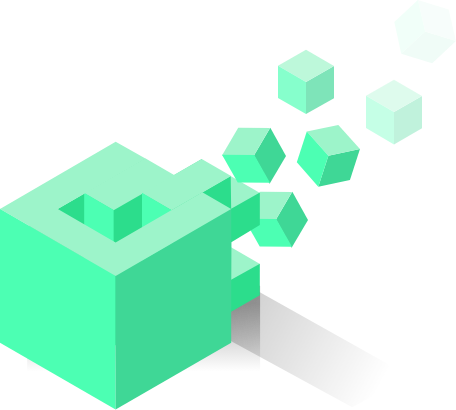
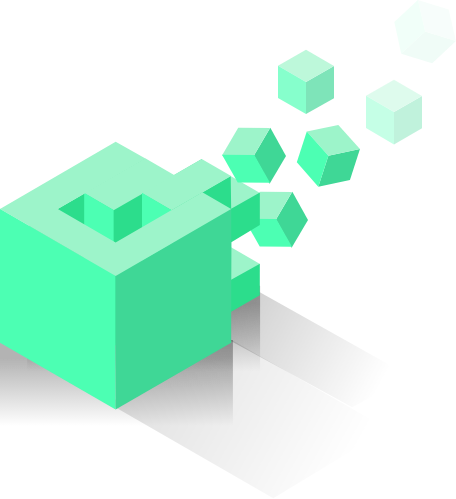
NW-274

diff --git a/src/scenes/send/SendTransactionConfirmationModal.tsx b/src/scenes/send/SendTransactionConfirmationModal.tsx
@@ -1,3 +1,4 @@
+import {RouteProp} from '@react-navigation/native'
 import React from 'react'
 import {ScrollView} from 'react-native'
 
@@ -10,10 +11,20 @@ import SwiperPanel, {
 import ThemedButton from '~src/components/themed/ThemedButton'
 import {ModalStackParamList} from '~src/navigation/ModalStackNavigation'
 import {WalletStackParamList} from '~src/navigation/WalletsStackNavigation'
-import {ImageView, LinearLayout, TextView} from '~src/styles/styled-components'
+import {
+  ButtonView,
+  ImageView,
+  LinearLayout,
+  TextView,
+} from '~src/styles/styled-components'
+
+export interface SendTransactionConfirmationModalParams {
+  transactionHash: string
+}
 
 interface Props {
   navigation: StackNavigationProp<ModalStackParamList & WalletStackParamList>
+  route: RouteProp<ModalStackParamList, 'SendTransactionConfirmationModal'>
 }
 
 const SendTransactionConfirmationModal = (props: Props) => {
@@ -44,6 +55,7 @@ const SendTransactionConfirmationModal = (props: Props) => {
           resizeMode="contain"
           source={require('~src/assets/images/transaction-sent.png')}
         />
+
         <TextView color="text.0" fontSize="24px" fontFamily="medium" mb="5px">
           {Facade.t('modals.send.transactionConfirmation.header')}
         </TextView>
@@ -56,10 +68,18 @@ const SendTransactionConfirmationModal = (props: Props) => {
         >
           {Facade.t('modals.send.transactionConfirmation.subheader')}
         </TextView>
+
         <TextView color="text.2" fontSize="14px" fontFamily="medium" mb="12px">
           {Facade.t('modals.send.transactionConfirmation.transactionId')}
         </TextView>
-        <LinearLayout orientation="horiz" alignItems="center" mb="24px">
+        <ButtonView
+          orientation="horiz"
+          alignItems="center"
+          mb="24px"
+          onPress={() =>
+            Facade.utils.copyToClipboard(props.route.params.transactionHash)
+          }
+        >
           <TextView
             maxWidth="80%"
             color="primary"
@@ -67,14 +87,15 @@ const SendTransactionConfirmationModal = (props: Props) => {
             fontFamily="medium"
             mr="16px"
           >
-            AN8iLVt18CKoATdexztCQj923hw5gkc41A
+            {props.route.params.transactionHash}
           </TextView>
           <ImageView
             width="16px"
             resizeMode="contain"
             source={require('~src/assets/images/icon-copy-green.png')}
           />
-        </LinearLayout>
+        </ButtonView>
+
         <LinearLayout mt="auto" px="20px" width="100%">
           <ThemedButton
             onPress={() => {

diff --git a/src/scenes/send/SendTransactionReviewModal.tsx b/src/scenes/send/SendTransactionReviewModal.tsx
@@ -158,9 +158,12 @@ const SendTransactionReviewModal = (props: Props) => {
           <ThemedButton
             label={Facade.t('app.send')}
             onPress={() =>
-              props.navigation.navigate(
-                Facade.route.SendTransactionConfirmationModal.name
-              )
+              props.navigation.navigate(Facade.route.Modal.name, {
+                screen: Facade.route.SendTransactionConfirmationModal.name,
+                params: {
+                  transactionHash: '<TRANSACTIONHASH>',
+                },
+              })
             }
           />
         </LinearLayout>

diff --git a/src/navigation/ModalStackNavigation.tsx b/src/navigation/ModalStackNavigation.tsx
@@ -39,7 +39,7 @@ import ReceiveWalletSelectionModal from '~src/scenes/receive/ReceiveWalletSelect
 import SendAccountSelectionModal, {
   SendAccountSelectionModalParams,
 } from '~src/scenes/send/SendAccountSelectionModal'
-import SendTransactionConfirmationModal from '~src/scenes/send/SendTransactionConfirmationModal'
+import SendTransactionConfirmationModal, {SendTransactionConfirmationModalParams} from '~src/scenes/send/SendTransactionConfirmationModal'
 import SendTransactionInputModal, {
   SendTransactionInputModalParams,
 } from '~src/scenes/send/SendTransactionInputModal'
@@ -60,7 +60,7 @@ export type ModalStackParamList = {
   SendAccountSelectionModal: SendAccountSelectionModalParams
   SendTransactionInputModal: SendTransactionInputModalParams
   SendTransactionReviewModal: undefined
-  SendTransactionConfirmationModal: undefined
+  SendTransactionConfirmationModal: SendTransactionConfirmationModalParams
   CustomColor: {onColorPicked: (hex: string) => void}
   WalletContextModal: undefined
   ReorderWalletModal: undefined